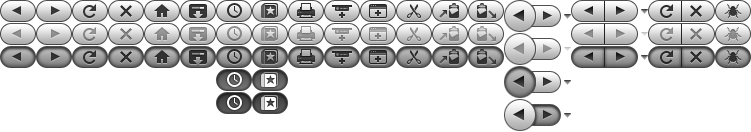
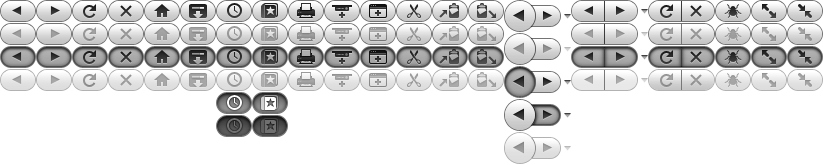
Bug 494927 - toolbarbutton image transparency/anti-aliasing should accommodate different background colors. r=dao

diff --git a/browser/themes/pinstripe/browser/browser.css b/browser/themes/pinstripe/browser/browser.css
@@ -572,13 +572,13 @@ toolbar[iconsize="small"] #unified-back-forward-button > #back-forward-dropmarke
 }
 
 #history-button[checked="true"] {
-  -moz-image-region: rect(69px, 252px, 92px, 216px);
+  -moz-image-region: rect(92px, 252px, 115px, 216px);
   background-color: transparent;
   border-color: transparent;
 }
 
 #history-button[checked="true"]:hover:active {
-  -moz-image-region: rect(92px, 252px, 115px, 216px);
+  -moz-image-region: rect(115px, 252px, 138px, 216px);
 }
 
 /* ----- DEFAULT BOOKMARKS BUTTON ----- */	
@@ -596,13 +596,13 @@ toolbar[iconsize="small"] #unified-back-forward-button > #back-forward-dropmarke
 }
 
 #bookmarks-button[checked="true"] {
-  -moz-image-region: rect(69px, 288px, 92px, 252px);
+  -moz-image-region: rect(92px, 288px, 115px, 252px);
   background-color: transparent;
   border-color: transparent;
 }
 
 #bookmarks-button[checked="true"]:hover:active {
-  -moz-image-region: rect(92px, 288px, 115px, 252px);
+  -moz-image-region: rect(115px, 288px, 138px, 252px);
 }
 
 /* ----- DEFAULT PRINT BUTTON ----- */	
